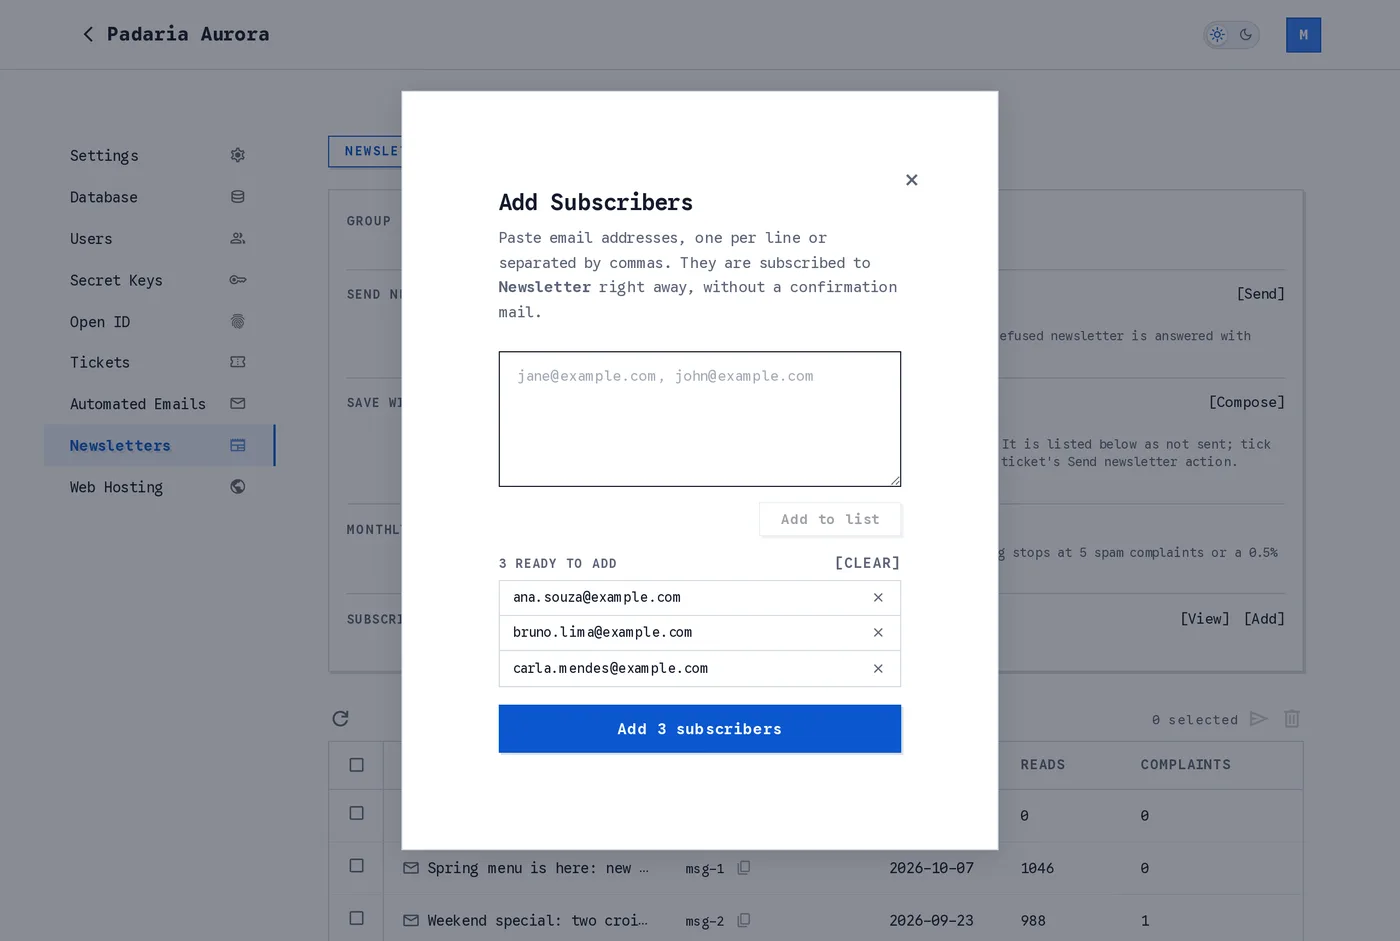
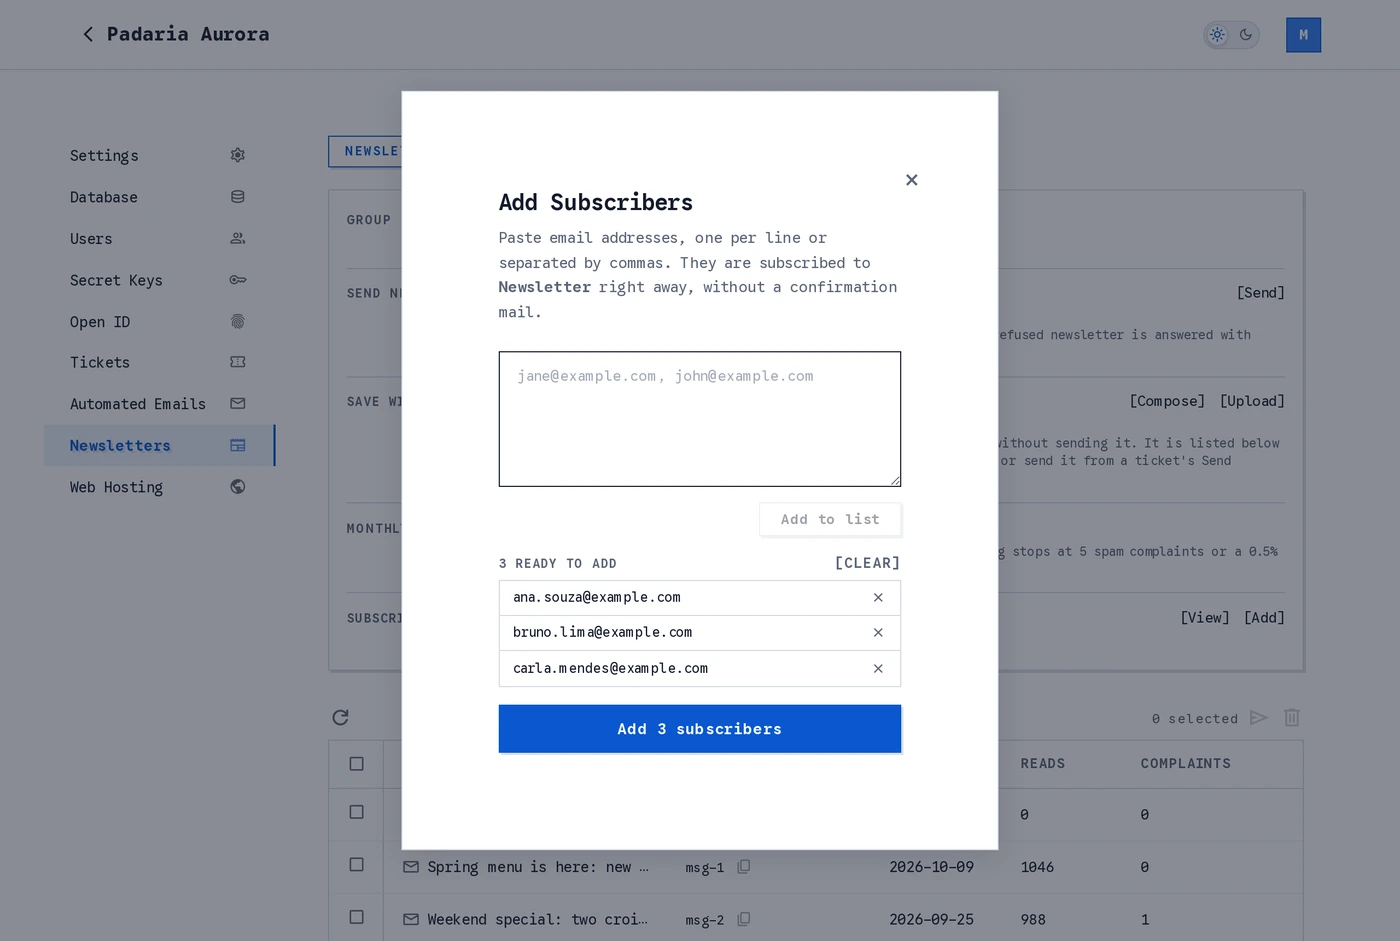
Refactor code structure for improved readability and maintainability

diff --git a/email/email-templates.md b/email/email-templates.md
@@ -58,7 +58,7 @@ The tabs on the page are named **Signup**, **Welcome**, **Verification**, **Invi
 
 Below them is the list of the templates you have sent for that type: the subject, the **Template ID** (which a ticket's Send e-mail action names for a custom template; the column copies it with a click and can be hidden with the column picker) and when it was received. On every tab but **Custom**, the template your project sends carries an **In use** chip next to its subject.
 
-![The Automated Emails page on the Signup tab: the Set Template address with a Compose link, the required and optional placeholders, the current template with a Preview link, and the list of uploaded templates with their subject, an In use chip on one of them, Template ID and date](/screenshots/mail-page.webp)
+![The Automated Emails page on the Signup tab: the Set Template address with Compose and Upload links, the required and optional placeholders, the current template with a Preview link, and the list of uploaded templates with their subject, an In use chip on one of them, Template ID and date](/screenshots/mail-page.webp)
 
 *The Automated Emails page. The Set Template address takes templates for the selected tab.*
 
@@ -135,20 +135,32 @@ A template that passes is added to the list for its type: choose it there to use
 
 ### Uploading a template
 
-A template does not have to come by e-mail. **[Upload]**, next to **[Compose]** on the **Set Template** row, takes it from your computer:
+A template does not have to come by e-mail. **[Upload]**, next to **[Compose]** on the **Set Template** row, takes it from your computer, as an **HTML file or as plain text**:
 
 1. Give the template a **subject**. It can hold placeholders, like a mailed subject.
-2. Pick the **body**: an **HTML file** (an `.html` file saved from your mail or page editor, stored as it is with its inline styles and images), or **plain text**, typed in or loaded from a `.txt` file. Plain text goes out as a simple HTML e-mail: each blank line starts a paragraph and web addresses become links, so the link placeholder written as `https://link.skapi.com` becomes a clickable link.
-3. The dialog checks the template as you go, the way the backend checks a mailed one: the subject, the type's [required placeholders](#required-placeholders-for-signup-confirmation-email), the size (up to 240 KB; inline images do not count) and, new with an upload, that the file is HTML an e-mail client renders: text with markup in it, no `<script>`, every element that has to be closed closed where it should be. A problem is named with its line; **Upload** stays off until it is fixed. A placeholder the type never fills is pointed out as a warning, because it would go out empty.
-4. **[Preview]** shows the body with sample values. **Upload template** stores it.
+2. Pick the **body**:
+   - **HTML file**: an `.html` file saved from your mail or page editor. It is stored as it is, inline styles and images included. The HTML must be **e-mail HTML**, the kind every mail client renders: text with markup in it, no `<script>`, and every element that has to be closed closed where it should be. A page that leans on scripts or on external stylesheets does not work as an e-mail.
+   - **Plain text**: typed in, or loaded from a `.txt` file. It goes out as a simple HTML e-mail: each blank line starts a paragraph, and web addresses become links, so the link placeholder written as `https://link.skapi.com` becomes a clickable link.
+3. A template of a type that has [required placeholders](#required-placeholders-for-signup-confirmation-email) must contain **all of them**, in either form: the signup confirmation and the newsletter confirmation need the link, the verification e-mail `${code}`, the invitation the link, `${email}` and `${password}`.
+4. The dialog checks all of this as you go, the way the backend checks a mailed template: the subject, the required placeholders, the size (up to 240 KB; inline images do not count) and the HTML. A problem is named with its line; **Upload** stays off until it is fixed. A placeholder the type never fills in is pointed out as a warning, because it would go out empty. **[Preview]** shows the body with sample values.
+
+![The Upload a Signup Confirmation Template dialog: a subject with ${name}, Plain text chosen, a short text body with ${email} and https://link.skapi.com, a Checked line with the size, and the preview rendered below](/screenshots/mail-upload.webp)
+
+*A signup confirmation template from plain text, checked and previewed.*
+
+![The same dialog with an HTML file chosen and two problems listed in red: a span opened on line 10 is still open where the div closes on line 11, and the template is missing the required placeholder https://link.skapi.com; the Upload button is disabled](/screenshots/mail-upload-problems.webp)
+
+*A file the checks refuse. The backend makes the same checks again and answers with the same sentences.*
 
 An uploaded template is stored exactly as a mailed one, in the list of its type with a Template ID. It is **not in use** until you choose it there, like any other. On the Custom tab the upload is the template a ticket's Send e-mail action names.
+
+**From an AI agent.** The [Skapi MCP server](/introduction/getting-started.md#connecting-the-skapi-mcp-server)'s `manageEmailTemplates` tool lets the project owner's agent compose a template and upload it the same way, as e-mail HTML or plain text, under the same checks, and list the templates of a type. It is available to the project owner's account only, and it never puts a template in use: you choose it on this page.
 
 ## Custom e-mails
 
 The **Custom** tab holds templates that no event sends on its own: a ticket sends them, with its [Send e-mail action](/tickets/actions.md#mail-send-an-e-mail), to the address the ticket names. An order confirmation, a receipt, a notice to a member who just unlocked something: anything a webhook or a signed-in call should trigger.
 
-![The Automated Emails page on the Custom tab: the Set Template address with a Compose link, the optional placeholders, a Sending row reading By a ticket, and a list of templates with their subject, their template ID with a copy button, and when each was received](/screenshots/mail-custom.webp)
+![The Automated Emails page on the Custom tab: the Set Template address with Compose and Upload links, the optional placeholders, a Sending row reading By a ticket, and a list of templates with their subject, their template ID with a copy button, and when each was received](/screenshots/mail-custom.webp)
 
 *The Custom tab. Every template has a template ID, which a Send e-mail action names.*
 
@@ -276,6 +288,8 @@ A rejected template is not saved and does not appear in the template list. Skapi
 
 A template that passes gets a reply saying it has been uploaded. It is not used until you select it in the `Automated Emails` page.
 
+
+A template **uploaded** from the dashboard goes through the same checks, in the dialog before it is sent: a missing placeholder, HTML that is not e-mail HTML, or a body over the size is named there, and the upload does not start until it is fixed.
 
 ## Required Placeholders for signup confirmation email
 

diff --git a/email/newsletters.md b/email/newsletters.md
@@ -12,7 +12,7 @@ Endpoints in the older `xxxxxxxxxxxxxxxxxxxx-00xxxxxxxxxxxxxxxxxxxxxxxxxxxxxxxx@
 
 Go to `Newsletters` page, select the tab (`Newsletter`, `Service Email` or a named group), and the page will show the email endpoint address to send the newsletter.
 
-![The Newsletters page of a Skapi project: one tab per list, the group's name as code gives it, the sending address with a Send link, a Save without sending address, monthly sends, subscribers with View and Add links, and the table of newsletters with their IDs](/screenshots/newsletter-page.webp)
+![The Newsletters page of a Skapi project: one tab per list, the group's name as code gives it, the sending address with a Send link, a Save without sending address with Compose and Upload links, monthly sends, subscribers with View and Add links, and the table of newsletters with their IDs](/screenshots/newsletter-page.webp)
 
 *The Newsletters page. Every list has its own sending address, its own subscriber count and its own history of sent mail.*
 
@@ -81,7 +81,7 @@ nd.promo-xxxxxxxxxxxxxxxxxxxxxxxxxxxxxxxx.xxxxxxxxxxxxxxxxxxxx@mail.skapi.com
 
 A newsletter mailed to it, from your project's email address like any other, is checked and stored the same way but delivered to nobody; the reply says so and names its **newsletter ID**. The row appears under **Sent newsletters** with **Not sent** in its Sent column.
 
-![The Newsletters page with a Save without sending address under the sending address, a send icon and a delete icon above the table, and a Sent newsletters list with a Newsletter ID column whose first row reads Not sent](/screenshots/newsletter-not-sent.webp)
+![The Newsletters page with a Save without sending address under the sending address, its Compose and Upload links, a send icon and a delete icon above the table, and a Sent newsletters list with a Newsletter ID column whose first row reads Not sent](/screenshots/newsletter-not-sent.webp)
 
 *A newsletter saved without sending. Tick it and click the send icon above the table when you are ready.*
 
@@ -91,9 +91,20 @@ A newsletter mailed to it, from your project's email address like any other, is 
 
 ### Uploading a newsletter
 
-**[Upload]**, next to **[Compose]** on the **Save without sending** row, stores a newsletter from your computer instead of your mail app: a **subject**, and the body as an **HTML file** or as **plain text** (typed in, or loaded from a `.txt` file; each blank line starts a paragraph and web addresses become links). The dialog checks the subject, the size (up to 240 KB; inline images do not count) and that the body is HTML an e-mail client renders, naming any problem with its line, and **[Preview]** shows it with sample values.
+**[Upload]**, next to **[Compose]** on the **Save without sending** row, stores a newsletter from your computer instead of your mail app, as an **HTML file or as plain text**:
+
+- **HTML file**: stored as it is, inline styles and images included (up to 240 KB; inline images do not count). It must be **e-mail HTML**, the kind every mail client renders: text with markup in it, no `<script>`, every element that has to be closed closed where it should be.
+- **Plain text**: typed in, or loaded from a `.txt` file. Each blank line starts a paragraph and web addresses become links. `${name}`, `${email}` and `${service_name}` are filled in for each subscriber, as in a mailed newsletter.
+
+The dialog checks the subject, the size and the HTML, naming any problem with its line, and **[Preview]** shows the newsletter with sample values.
+
+![The Upload a Newsletter dialog: a subject, Plain text chosen, a short newsletter body with ${name} and a link, and a Checked line with the size](/screenshots/newsletter-upload.webp)
+
+*A newsletter saved from plain text. It is listed as Not sent until you send it.*
 
 An uploaded newsletter is stored exactly as one mailed to the Save without sending address: dry, sent to nobody, listed as **Not sent**, counted into the project's e-mail storage and never as a send. Send it from the list, or from a ticket's Send newsletter action, when it is ready.
+
+**From an AI agent.** The [Skapi MCP server](/introduction/getting-started.md#connecting-the-skapi-mcp-server)'s `manageNewsletters` tool lets the project owner's agent compose a newsletter and save it the same way, as e-mail HTML or plain text, and list a group's newsletters. It is available to the project owner's account only, and it never sends: the newsletter waits in the list as Not sent until you send it, or a ticket does.
 
 ## Subscribing Users To Public Newsletters
 

diff --git a/versionlog/versions.md b/versionlog/versions.md
@@ -17,6 +17,7 @@
 - Backend (ships with the API, not the SDK): hosting and file store folder sizes are updated **once per folder per batch** of stored files instead of once per file, and the hosting down-stream worker takes ten messages per invocation, reporting each on its own.
 - `Newsletter` gains **`dry`**, true on a newsletter saved without sending, and **`sent`**, the time a stored newsletter was last sent from the `Newsletters` page or by a ticket. See [Saving a newsletter without sending it](/email/newsletters.md#saving-a-newsletter-without-sending-it).
 - Backend (ships with the API, not the SDK): the `Automated Emails` page gains a **Custom** tab for the templates a ticket's `mail` action sends, identified by their template ID; `${email}` is filled in every automated e-mail, the newsletter subscription confirmation included; and a template you send is only added to its list, nothing changes until you choose it. Every newsletter address has a **Save without sending** twin: a newsletter mailed to it is stored, marked **Not sent**, and sent later from the page or by a ticket's `nlsd` action. See [Custom e-mails](/email/email-templates.md#custom-e-mails) and [Sending Newsletters](/email/newsletters.md).
+- Backend (ships with the API, not the SDK): an automated e-mail template, and a newsletter, can be **uploaded** from the `Automated Emails` and `Newsletters` pages, as an HTML file or as plain text, instead of being mailed to the setter or sending address. The dialog and the backend make the same checks (e-mail HTML, the type's required placeholders, the size); an uploaded template is never put in use and an uploaded newsletter is stored without sending, like one mailed to the `Save without sending` address.
 - Backend (ships with the API, not the SDK): a spreadsheet question (BunnyQuery's exact answers over a stored .xlsx, .xls or .csv) refuses a file it cannot read with a message that names the file and what it is (a PDF, a web page saved under the file's name, a legacy .xls under .xlsx, an empty or cut-short file), instead of the parser's own error coming back as an internal error.
 - Backend (ships with the API, not the SDK): `retry` on a Send e-mail or Send newsletter action never repeats a send that was already queued, and never retries a refusal that waiting cannot change (an address that is none, a template or newsletter that no longer exists, the month's sends used up). Bookkeeping that fails after a send went out leaves a `warning` on the action's log row instead of failing the action.
 - Backend (ships with the API, not the SDK): a ticket's log rows expire after the plan's retention (Free 30 days, Standard 90, Premium never), deleting a ticket deletes its logs, and the ticket rows count as database storage. Queued ticket runs are metered per month. See [Plans and Limits](/introduction/plans.md#queued-ticket-runs).

diff --git a/introduction/getting-started.md b/introduction/getting-started.md
@@ -216,6 +216,7 @@ Everything below runs with the permissions of the signed-in account, so the agen
 - **Database.** Read, search, create, update and delete records. List tables, tags, indexes and unique IDs, and find any of them by how its name starts or ends. It can also read the files attached to a record and give you a download link for them, but it cannot attach a file to a record or remove one: a record sent with files to attach or remove is refused and not saved, while the other records in the same request are still saved. Attach and remove a record's files in the Skapi dashboard (Database page) or with the SDK. Deleting a record still deletes the files attached to it, as it does everywhere else.
 - **Project settings.** Turn sign-ups or inquiries on and off, restrict anonymous writes, and change the other settings of the project.
 - **Hosting.** Register a web address, then upload, edit and delete the files of your project's website.
+- **E-mails** (project owner only). Compose an automated e-mail template, of any type, or a newsletter, and upload it as e-mail HTML or as plain text, with the same checks the dashboard makes (e-mail HTML, the type's required placeholders, the size). An uploaded template is added to its list and is never put in use by the agent; an uploaded newsletter is saved without sending. The owner chooses the template, or sends the newsletter, on the dashboard, or a ticket's Send e-mail or Send newsletter action names it. See [Uploading a template](/email/email-templates.md#uploading-a-template) and [Uploading a newsletter](/email/newsletters.md#uploading-a-newsletter).
 
 The ticket, secret key and OpenID logger pages of this documentation each show the dashboard forms these tools fill in for you. A few prompts to start with:
 
@@ -225,6 +226,8 @@ Create a ticket that saves each incoming webhook payload to the "orders" table, 
 Register a Google OpenID logger for this project, and let in only addresses that end with "@mycompany.com".
 Show me what my "orders" ticket received today.
 Make every record in the "posts" table private.
+Write a welcome e-mail for my shop, in my brand's tone, and upload it as the welcome template.
+Compose this month's newsletter about the new autumn menu and save it to the public list without sending it.
 ```
 
 The agent picks the tools, asks when something is missing, and reports what it changed.
